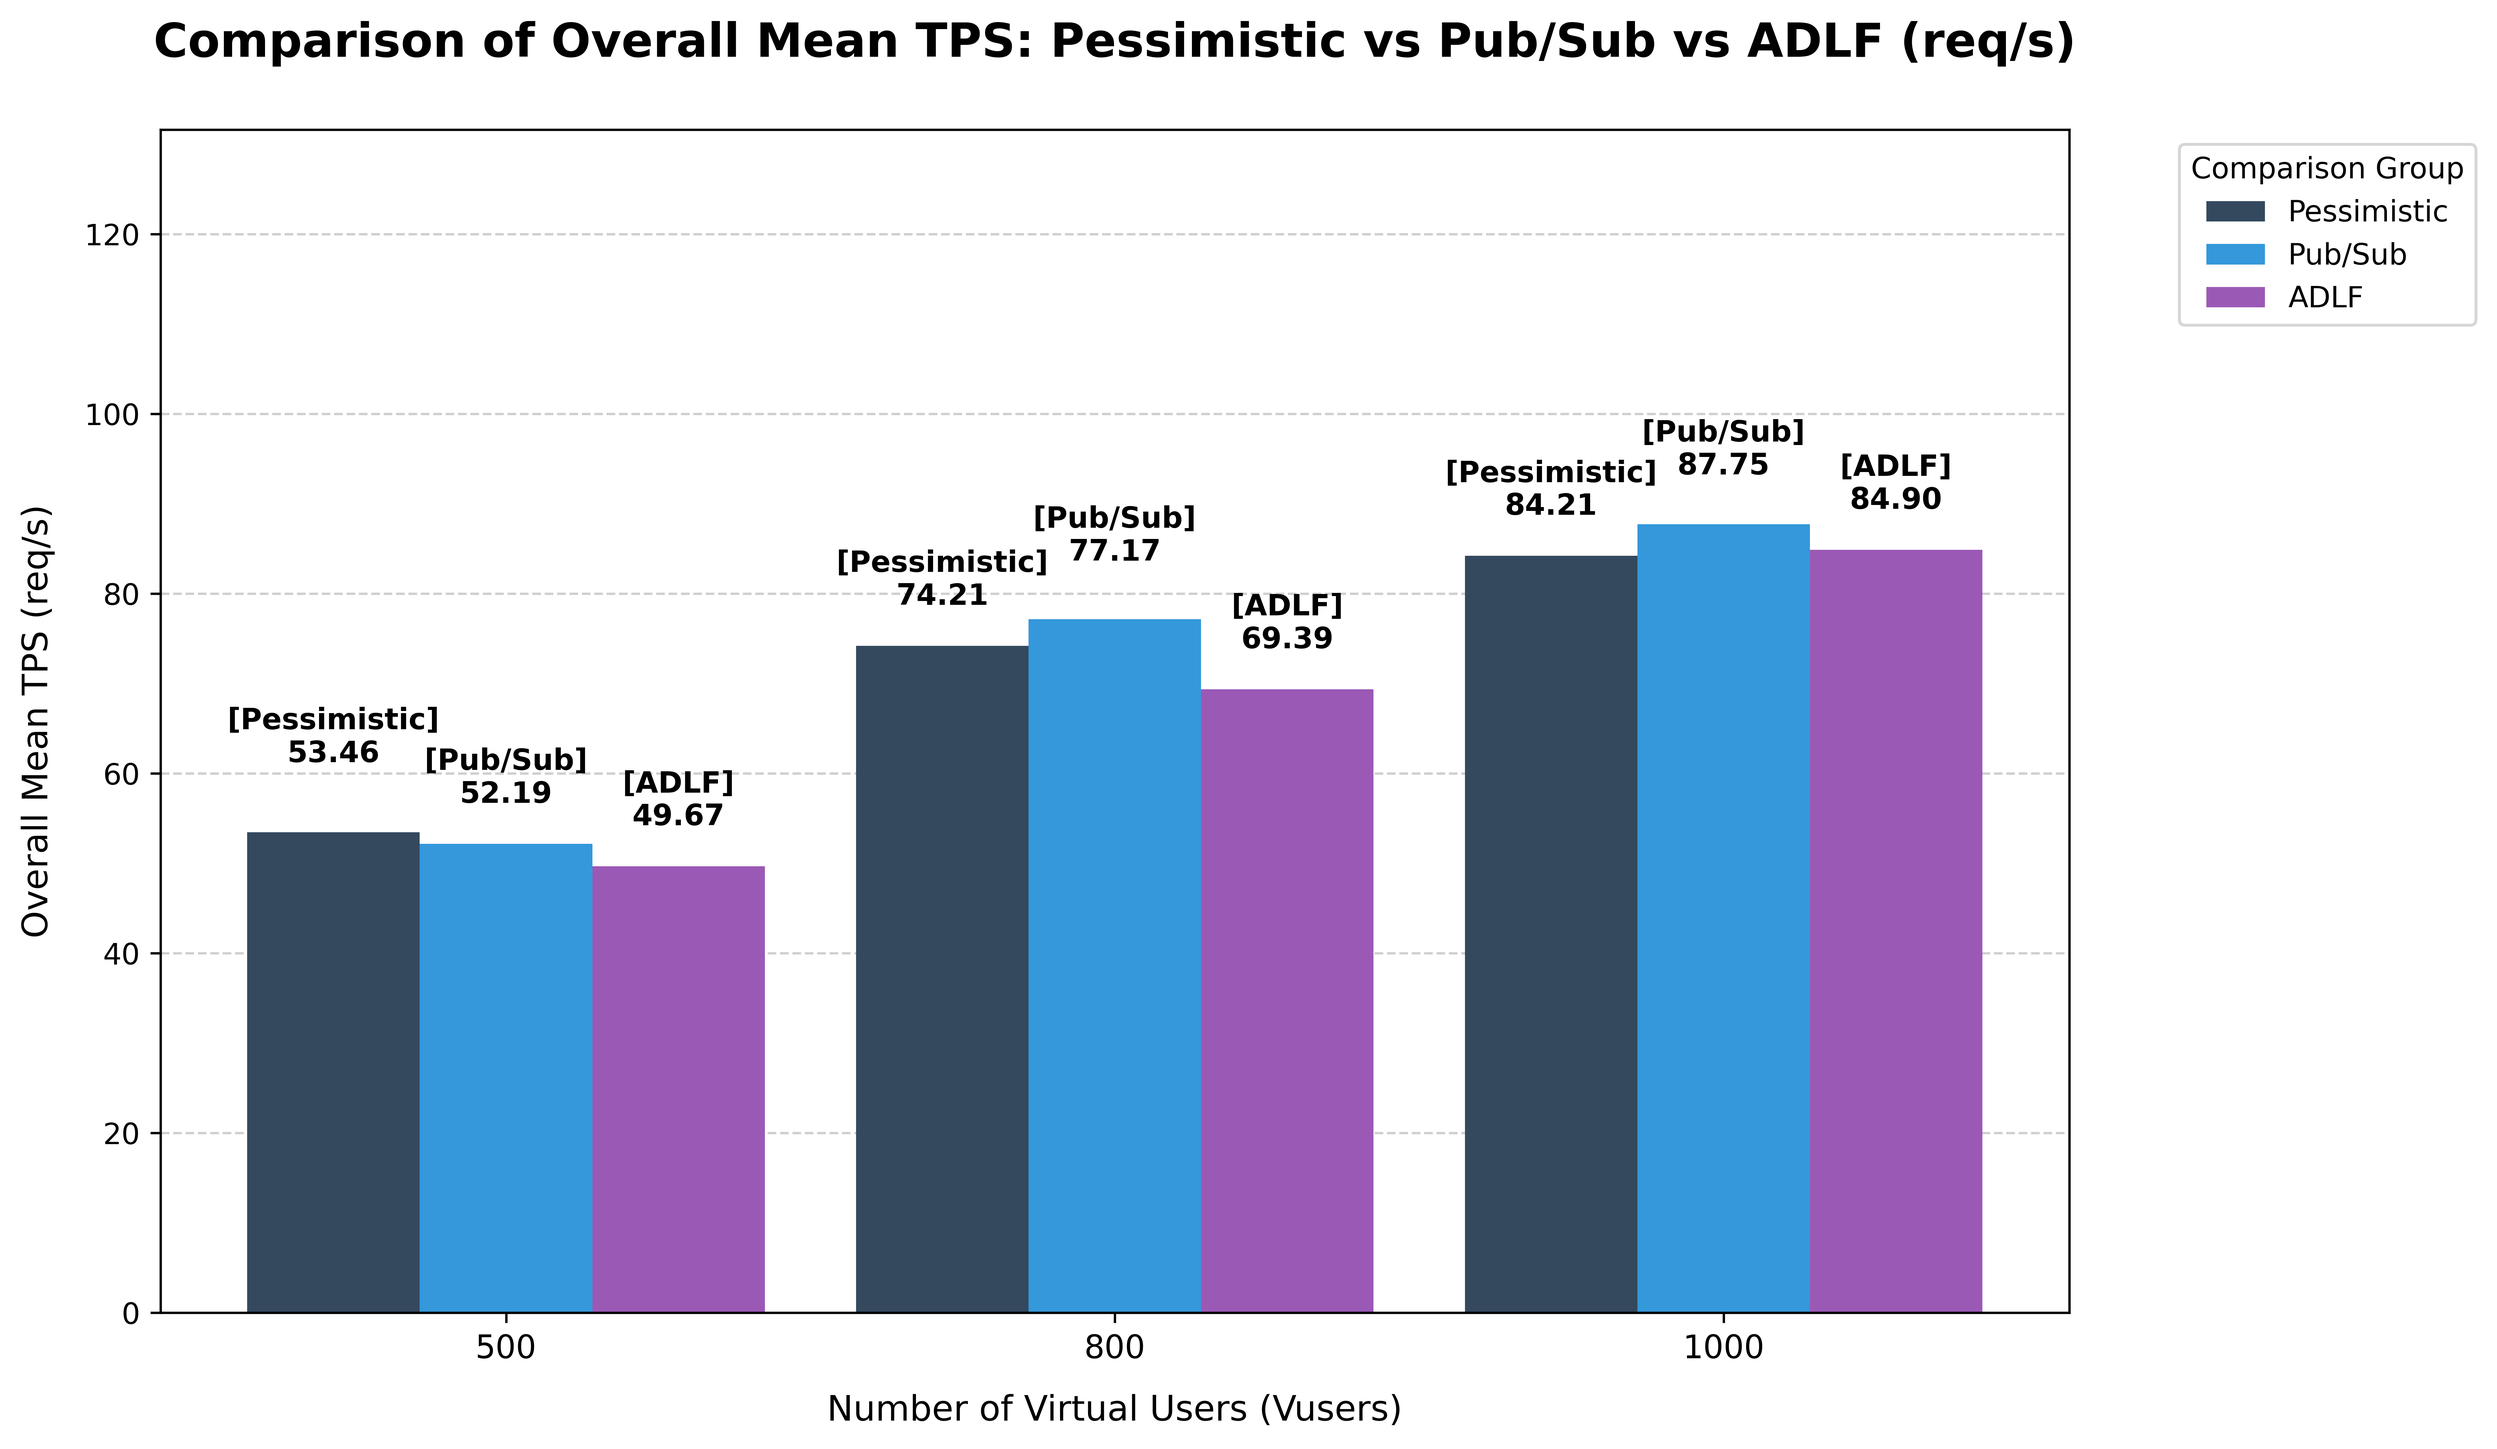
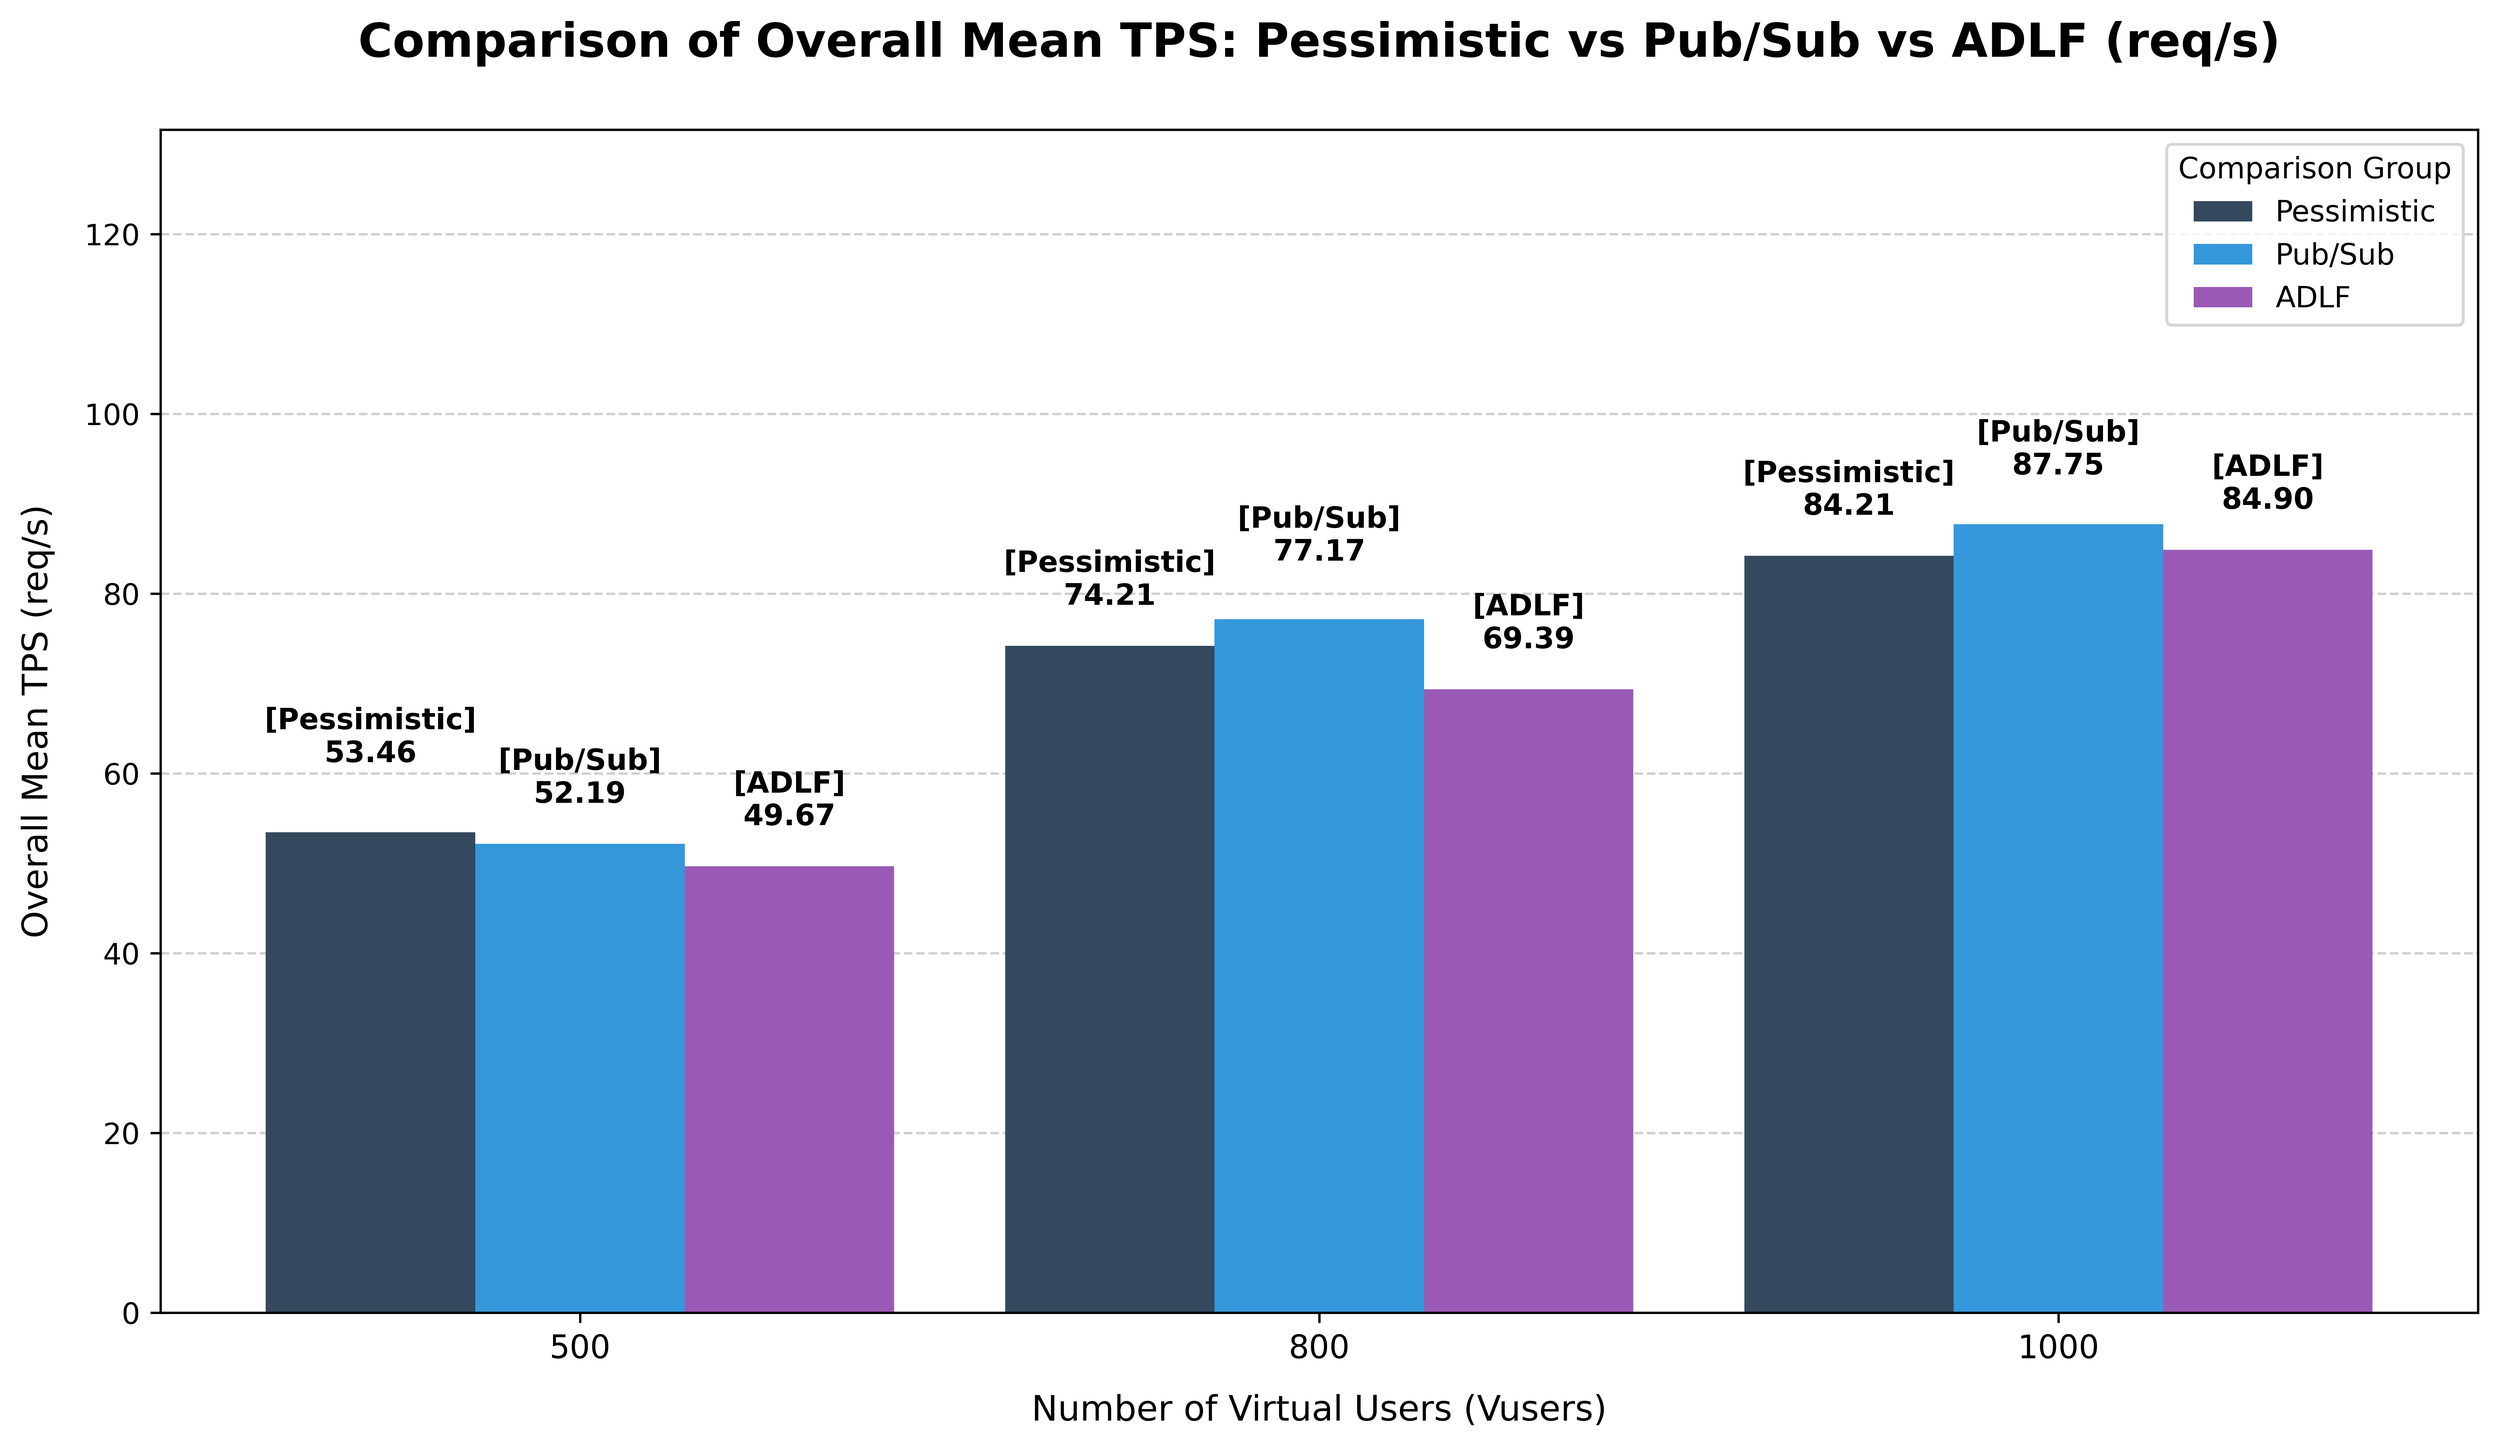
📝 docs(analysis): 그래프 범례를 그래프 내부에 위치하도록 수정

diff --git a/analysis/plot_latency.py b/analysis/plot_latency.py
@@ -27,7 +27,7 @@ def save_latency_bar_chart(df, target_column, title, output_filepath):
     plt.xlabel('Number of Virtual Users (Vusers)', fontsize=12, labelpad=10)
     plt.ylabel(f'{target_column} (ms)', fontsize=12, labelpad=10)
     plt.xticks(rotation=0)
-    plt.legend(title='Lock Type', bbox_to_anchor=(1.02, 1), loc='upper left')
+    plt.legend(title='Lock Type', loc='best')
     plt.grid(axis='y', linestyle='--', alpha=0.6, zorder=0)
 
     for i, lock_name in enumerate(target_locks):
@@ -119,7 +119,7 @@ def plot_stability_mini_trends(df, output_filepath):
     # 텍스트가 더 위로 솟아오른 것을 감안하여 Y축 천장을 1.35배로 넉넉하게 확장
     plt.ylim(bottom=0, top=max_upper_bound * 1.35)
     plt.grid(axis='y', linestyle='--', alpha=0.6, zorder=0)
-    plt.legend(title='Lock Type', loc='upper left', bbox_to_anchor=(1.02, 1))
+    plt.legend(title='Lock Type', loc='best')
 
     plt.tight_layout()
     os.makedirs(os.path.dirname(output_filepath), exist_ok=True)

diff --git a/analysis/plot_tps.py b/analysis/plot_tps.py
@@ -29,7 +29,7 @@ def save_tps_bar_chart(df, target_column, title, output_filepath):
     plt.xlabel('Number of Virtual Users (Vusers)', fontsize=12, labelpad=10)
     plt.ylabel(f'{target_column} (req/s)', fontsize=12, labelpad=10)
     plt.xticks(rotation=0)
-    plt.legend(title='Lock Type', bbox_to_anchor=(1.05, 1), loc='upper left')
+    plt.legend(title='Lock Type', loc='best')
     plt.grid(axis='y', linestyle='--', alpha=0.7, zorder=0)
 
     # 5. 막대 위 수치 표시 (표준편차 병기 및 오차선 위로 위치 이동)

diff --git a/analysis/plot_latency_with_adaptive.py b/analysis/plot_latency_with_adaptive.py
@@ -61,7 +61,7 @@ def save_latency_3way_comparison_chart(df, target_column, title, output_filepath
     ax.set_xticks(x_base)
     ax.set_xticklabels([f'{v}' for v in vusers], fontsize=11)
 
-    ax.legend(loc='upper left', bbox_to_anchor=(1.02, 1), title='Comparison Group')
+    ax.legend(loc='best', title='Comparison Group')
     ax.grid(axis='y', linestyle='--', alpha=0.6, zorder=0)
 
     # 4. 라벨링

diff --git a/analysis/plot_stability_with_adaptive.py b/analysis/plot_stability_with_adaptive.py
@@ -60,7 +60,7 @@ def save_2sigma_3way_comparison_chart(df, target_column, title, output_filepath)
     ax.set_xticks(x_base)
     ax.set_xticklabels([f'{v}' for v in vusers], fontsize=11)
 
-    ax.legend(loc='upper left', bbox_to_anchor=(1.02, 1), title='Comparison Group')
+    ax.legend(loc='best', title='Comparison Group')
     ax.grid(axis='y', linestyle='--', alpha=0.6, zorder=0)
 
     # 4. 라벨링

diff --git a/analysis/plot_tps_with_adaptive.py b/analysis/plot_tps_with_adaptive.py
@@ -61,7 +61,7 @@ def save_tps_3way_comparison_chart(df, target_column, title, output_filepath):
     ax.set_xticks(x_base)
     ax.set_xticklabels([f'{v}' for v in vusers], fontsize=11)
 
-    ax.legend(loc='upper left', bbox_to_anchor=(1.05, 1), title='Comparison Group')
+    ax.legend(loc='best', title='Comparison Group')
     ax.grid(axis='y', linestyle='--', alpha=0.6, zorder=0)
 
     # 4. 라벨링
